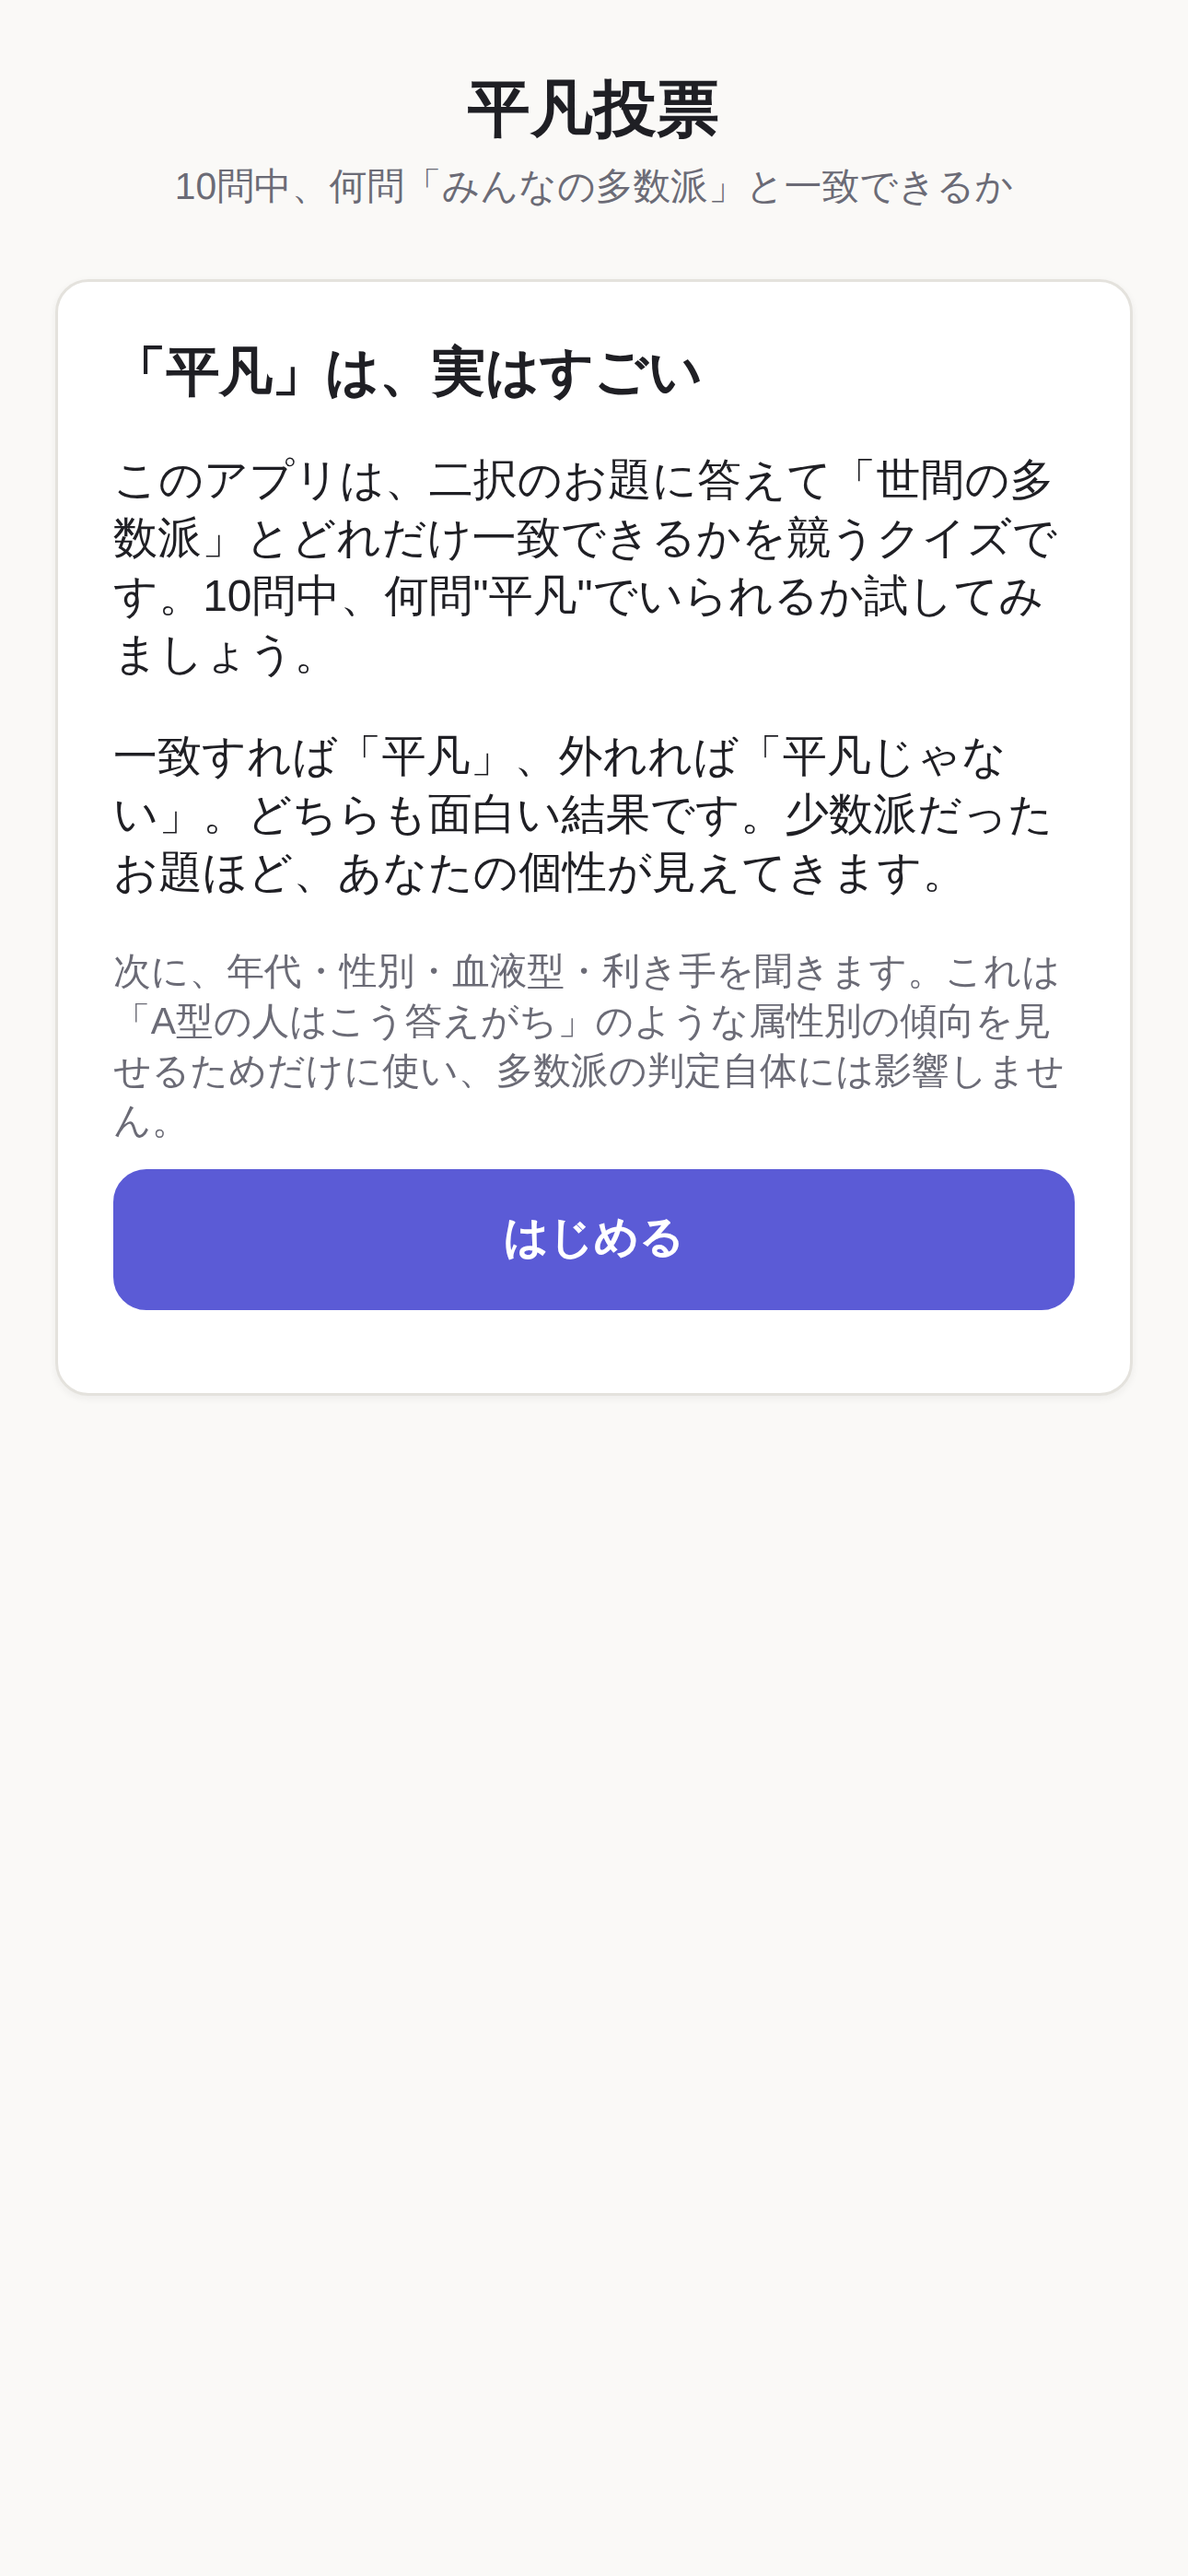
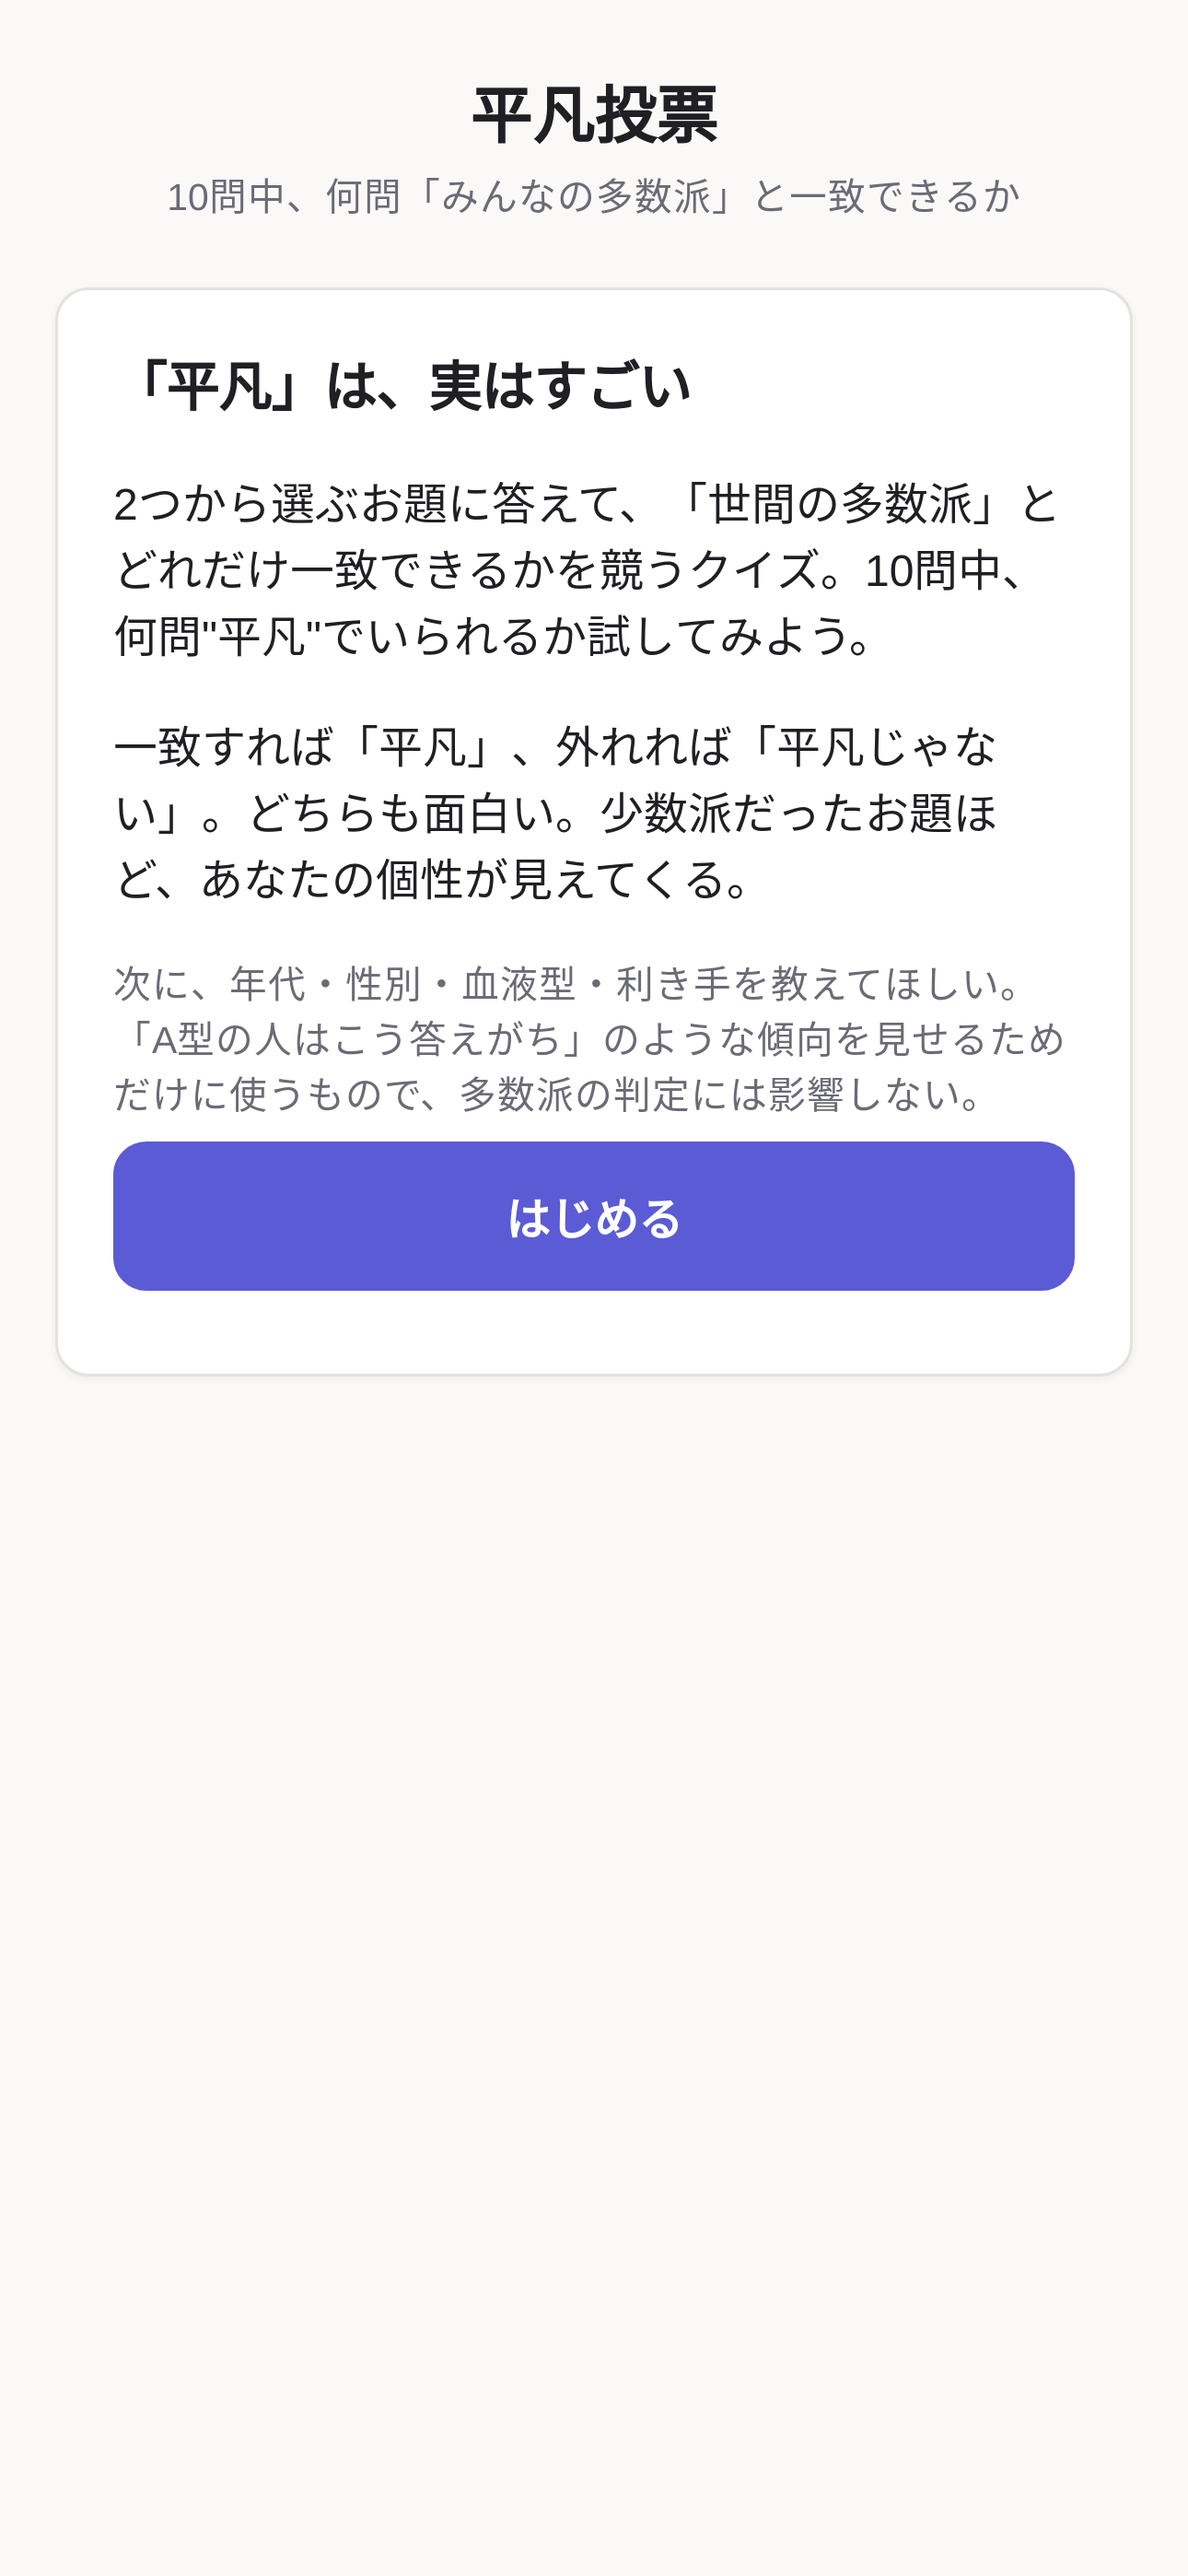
App Store提出物を現在のUIに追従させる
スクリーンショットが2026-08-18生成のままで、その後のUI変更
(カテゴリ選択のグループ化 / Part1→その1 / 文言の常体化 / アイコン追加 /
ヘッダーのsafe-area修正)が反映されておらず、審査で見せる画面と実物が食い違っていた。

生成スクリプトの不具合も修正:
- '食事 Part2' '恋愛 Part1' のテキストでボタンを探しており、UI変更後は
  該当なしのまま .first() にフォールバックして意図と違うカテゴリを撮っていた。
  カテゴリ名はグループ見出しに移ったため、pickBundle(カテゴリ名, 束番号)で指す
- プロフィールのseedキーが blood/hand で、実装の blood_type/handedness と
  食い違っていた。属性別の傾向が正しく出ない状態だった
- キャプション「二択に答えるだけ」を本文の言い換えに合わせ「2つから選ぶだけ」に

掲載情報_コピペ用.txt も実態に合わせる(フォーム名が「お題の提案・不具合の報告」に
変わった点、画面表記が「年代・血液型ごとの傾向」になった点)。
なお本文・キーワードの「二択」は掲載文として自然でASOにも効くため意図的に残す。

全6枚が提出必須サイズ 1290x2796 であることを確認済み。

diff --git a/appstore/generate-screenshots.js b/appstore/generate-screenshots.js
@@ -21,7 +21,7 @@ const BASE = process.env.BASE_URL || 'http://localhost:4322';
 const CAPTIONS = {
   '01-intro': ['「平凡」は、実はすごい', '世間の多数派と何問一致できる?'],
   '02-category': ['気になるテーマを選ぶ', '10問ぴったりで気軽に挑戦'],
-  '03-question': ['二択に答えるだけ', '難しいことは考えなくていい'],
+  '03-question': ['2つから選ぶだけ', '難しいことは考えなくていい'],
   '04-feedback': ['その場でみんなの答えが出る', '実データにもとづく本物の割合'],
   '05-result': ['あなたの"平凡度"を判定', '満点なら「真の平凡」'],
   '06-breakdown': ['どこで外したかも一目で', '少数派だったお題ほど個性が見える'],
@@ -42,12 +42,21 @@ const shot = async (page, name) => {
   console.log('raw:', name);
 };
 
+// 「食事」の「その2」のように、カテゴリ名と束番号でボタンを指す。
+const pickBundle = (page, categoryLabel, part) =>
+  page
+    .locator('.category-group')
+    .filter({ hasText: categoryLabel })
+    .first()
+    .locator('button.category-option')
+    .nth(part - 1);
+
 const seedProfile = (page) =>
   page.evaluate(() => {
     localStorage.setItem('heibonVote.voterId', 'appstore-shot-0001');
     localStorage.setItem(
       'heibonVote.profile',
-      JSON.stringify({ version: 1, values: { age: '30s', gender: 'male', blood: 'a', hand: 'right' } })
+      JSON.stringify({ version: 1, values: { age: '30s', gender: 'male', blood_type: 'a', handedness: 'right' } })
     );
     localStorage.setItem('heibonVote.playedParts', JSON.stringify(['food:1']));
   });
@@ -94,7 +103,10 @@ async function playQuiz(page, { missIndices = [], onQuestion = null, onFeedback 
   await page.waitForTimeout(800);
   await shot(page, '02-category');
 
-  const start = page.locator('button.category-option').filter({ hasText: '食事 Part2' }).first();
+  // カテゴリ名は .category-group の見出しに移り、ボタンは「その1/その2」だけになった
+  // (2026-08-22のUI変更)。以前は 'food Part2' のテキストで探しており、該当なしのまま
+  // .first() にフォールバックして意図と違うカテゴリを撮っていた。
+  const start = pickBundle(page, '食事', 2);
   await ((await start.count()) ? start : page.locator('button.category-option').first()).click();
   await page.waitForTimeout(1800);
 
@@ -121,7 +133,7 @@ async function playQuiz(page, { missIndices = [], onQuestion = null, onFeedback 
   await page2.waitForTimeout(1200);
   await page2.getByRole('button', { name: '挑戦する' }).click();
   await page2.waitForTimeout(800);
-  const start2 = page2.locator('button.category-option').filter({ hasText: '恋愛 Part1' }).first();
+  const start2 = pickBundle(page2, '恋愛', 1);
   await ((await start2.count()) ? start2 : page2.locator('button.category-option').first()).click();
   await page2.waitForTimeout(1800);
   await playQuiz(page2, { missIndices: [1, 4] });
